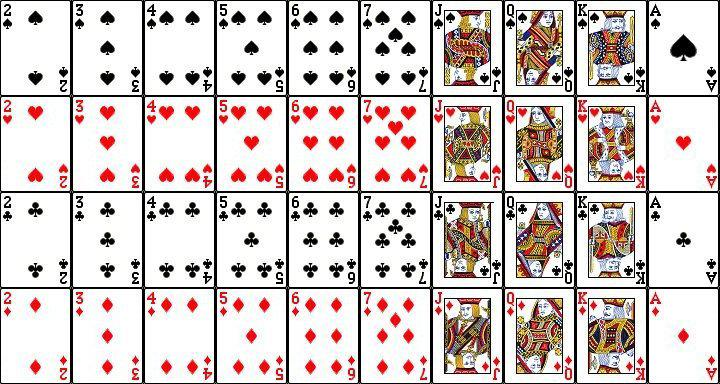
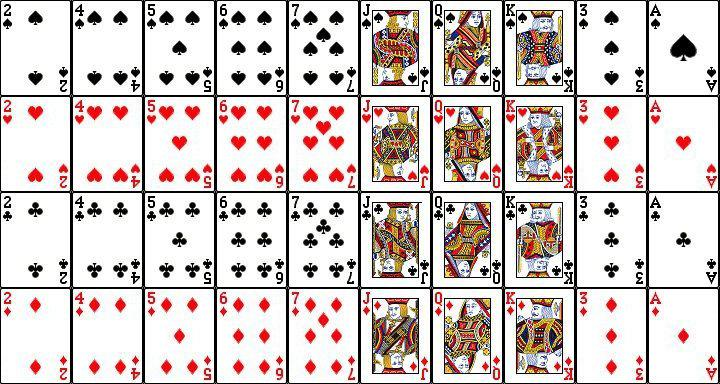
Fix cards order inside cards.jpg

diff --git a/misc/cut-image/script.py b/misc/cut-image/script.py
@@ -12,20 +12,41 @@ NEW_COLS = 10
 src = Image.open("cards.jpg")
 dst = Image.new('RGB', (X * NEW_COLS, Y * ROWS), (255, 255, 255))
 
-for x in range(0, X * COLS + 1, X):
-	for y in range(0, Y * ROWS - Y + 1, Y):
-		if x < X * 6:
-			box = (x, y, x + X, y + Y)
-
-			region = src.crop(box)
-			dst.paste(region, box)
+# Remove 3, 8, 9, 10
+for x in range(0, X * COLS - X, X):
+	for y in range(0, Y * ROWS, Y):
+		if x < X:
+			# Copy until 3
+			src_box = dst_box = (x, y, x + X, y + Y)
+		elif x == X:
+			# Skip 3
+			continue
+		elif x < X * 6:
+			# Copy until 7 (included) shifted by 1
+			src_box = (x, y, x + X, y + Y)
+			dst_box = (x - 1 * X, y, x + X - 1 * X, y + Y)
 		elif x == X * 6 or x == X * 7 or x == X * 8:
+			# Skip 8, 9, 10
 			continue
 		else:
+			# Copy J, Q, K shifted by 4
 			src_box = (x, y, x + X, y + Y)
-			dst_box = (x - 3 * X, y, x + X - 3 * X, y + Y)
+			dst_box = (x - 4 * X, y, x + X - 4 * X, y + Y)
 
-			region = src.crop(src_box)
-			dst.paste(region, dst_box)
+		region = src.crop(src_box)
+		dst.paste(region, dst_box)
+
+# Add 3 and A
+for y in range(0, Y * ROWS, Y):
+	src_box = (X, y, 2 * X, y + Y)
+	dst_box = (X * NEW_COLS - 2 * X, y, X * NEW_COLS - 1 * X, y + Y)
+	region = src.crop(src_box)
+	dst.paste(region, dst_box)
+
+for y in range(0, Y * ROWS, Y):
+	src_box = (X * COLS - 1 * X, y, X * COLS, y + Y)
+	dst_box = (X * NEW_COLS - 1 * X, y, X * NEW_COLS, y + Y)
+	region = src.crop(src_box)
+	dst.paste(region, dst_box)
 
 dst.save("output.jpg")
